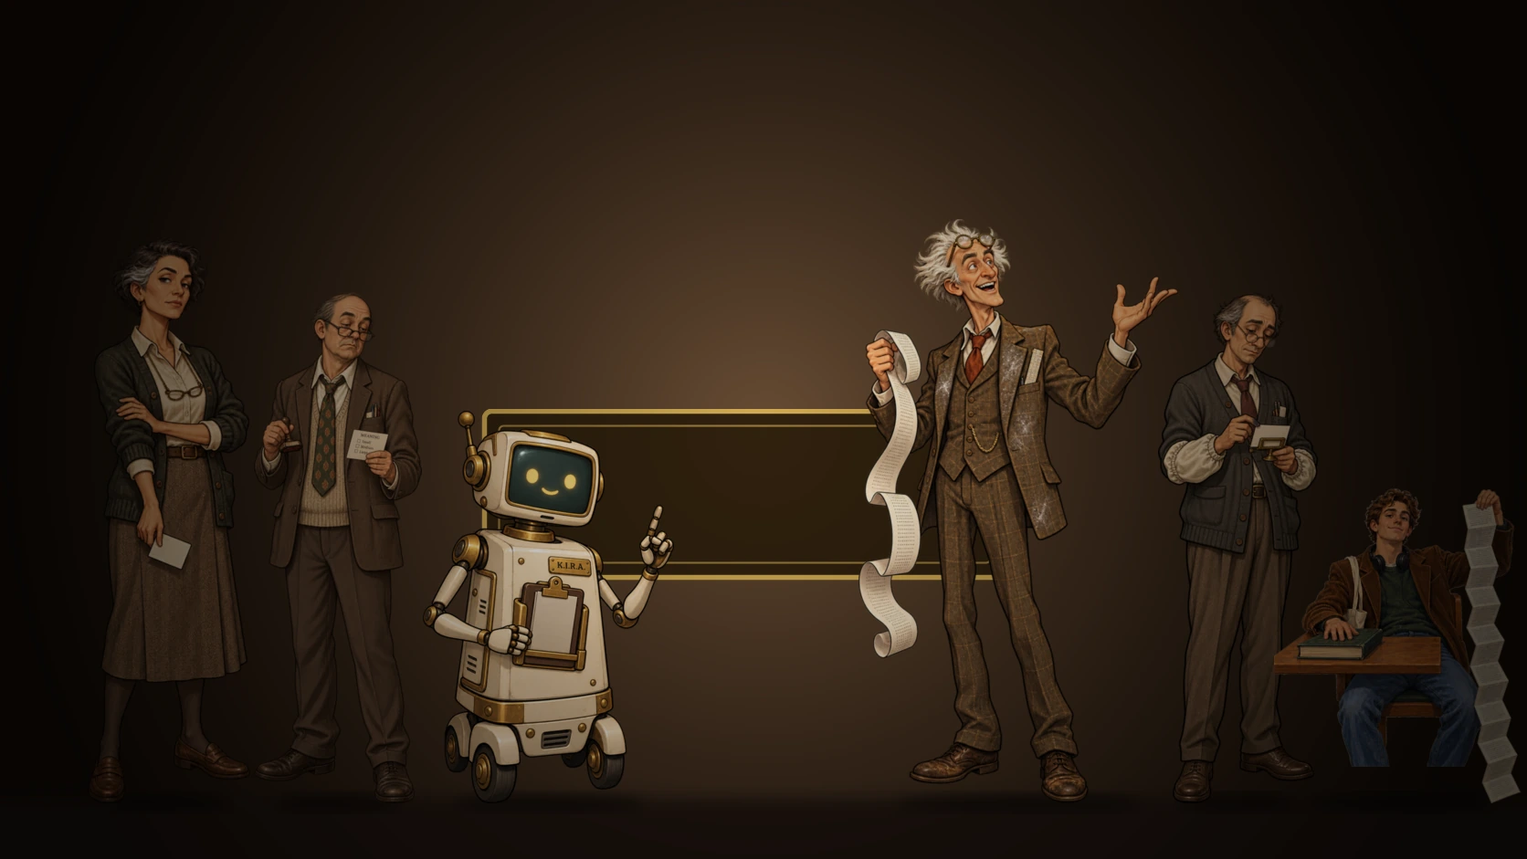
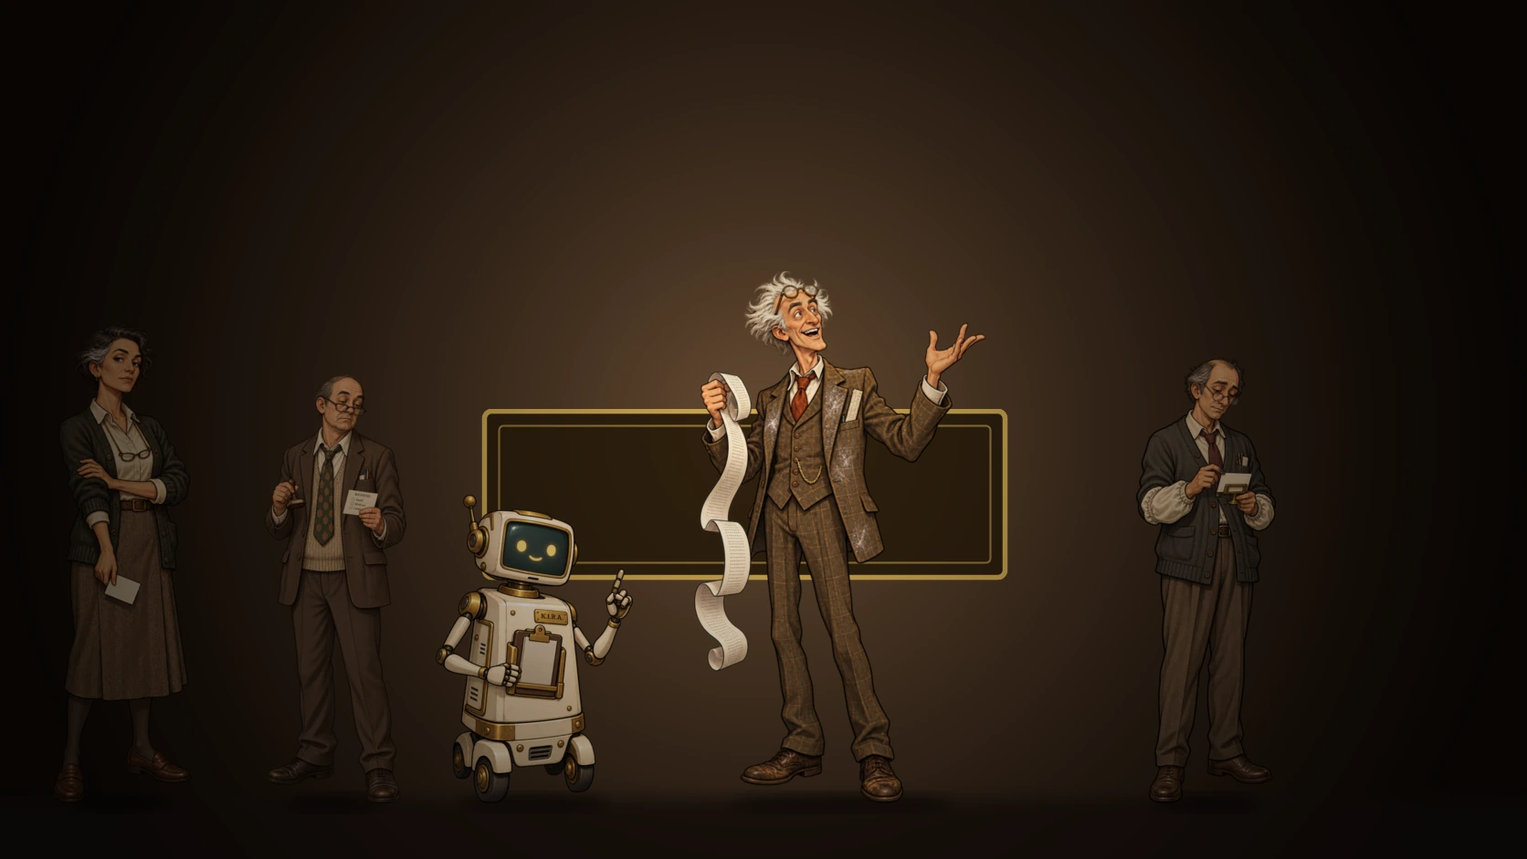
Act I: ask Vossberg where she is; seminar and library fixes
**The Professor no longer arrives because a stranger's lecture ended.**
`profAtOffice` was set by exactly one event: winning the bingo minigame in
the Lecture Theatre. That was coherent while the lecturer and the Professor
were one person, but 8o split them in two, and it left Act I gated on beating
a minigame in another room for a reason no player could reconstruct.

You can now just ask. Dr. Vossberg is covering her nine o'clock, is not
enjoying it, and knows exactly where she is. Talk to him and the question is
offered -- no items, no prerequisites, available the moment you walk in.
Derailing the lecture still works too, since it ends the hour she is refusing
to be in the building for. The empty-office hint now points at him by name.

**She stops shaking.** Opening her talk amplitude UP was the mistake. She is
one flat painting of a seated woman with her desk in it and no mouth frames,
so the lean rotated the furniture about a pivot in the middle of her, swinging
her head one way and her chair the other. Painted-in characters hold still.

**A guard that had gone wrong a second way.** The "not with her sitting right
there" check read `hasFlag('profAtOffice')`; it now reads the room's live
`profHere`. Same symptom as the old hoisting bug: you could clear her desk
while she watched.

**Seminar Room.** The Visiting Fellow stood with her feet on the seat of a
foreground chair. The backdrop is one flat painting, so a sprite is in front
[…]

diff --git a/web/the-secret-of-the-codebook.html b/web/the-secret-of-the-codebook.html
@@ -726,10 +726,13 @@
   [data-voice].talk-out{ --cb-a:0; }
   [data-voice="officer"], [data-voice="feldstrom"]{ --tk-rot:1.1deg; --tk-sc:.012; --tk-ri:.5%; --tk-dur:1.3s; }
   [data-voice="director"]{ --tk-rot:.8deg; --tk-sc:.003; --tk-ri:.4%; --tk-dur:.62s; }
-  /* The Professor is framed as a seated bust behind a desk, so the same lean covers far
-     fewer pixels than it does on a standing figure. Opened up to compensate, not because
-     she is more animated than anyone else. */
-  [data-voice="prof"]{ --tk-rot:.7deg; --tk-sc:.008; --tk-ri:.3%; --tk-dur:1.05s; }
+  /* The Professor does not move at all, and opening her amplitude UP was the mistake. She
+     is one flat painting of a seated woman WITH HER DESK IN IT, and she has no mouth frames
+     to carry the talking. So the lean does not read as a person leaning: it rotates the desk
+     too, about a pivot in the middle of her, which swings her head one way and her chair the
+     other. That is the shake. Stillness is the right answer for a painted-in character --
+     the same call already made for KIRA, for the opposite reason. */
+  [data-voice="prof"]{ --tk-rot:0deg; --tk-sc:0; --tk-ri:0%; --tk-dur:1.05s; animation:none; }
   /* KIRA is a machine on castors: no breath, no weight to shift, and she rocks rather than leans. */
   [data-voice="kira"]{ --tk-rot:.35deg; --tk-sc:.004; --tk-ri:0%; --tk-dur:.7s; animation:none; }
   [data-voice="keeper"], [data-voice="chair"], [data-voice="doorman"],
@@ -2898,11 +2901,19 @@ CODEBOOK_REGISTER({
     if (spr) spr.style.display = 'none';
   }
 
-  // Professor is a single shared entity toggling between Office and Lecture Theatre
-  // Absent means she is out: at the start of Act I she refuses to be in the building while
-  // the nine o'clock is running under her name (see the timetable line below), and she also
-  // walks out the moment her patience runs out. Desk items can only be taken while she is
-  // not watching, so an empty office is the looting window either way.
+  // She is out when the game starts, and `profAtOffice` is what brings her back. What SETS
+  // that flag is the thing that had to change: it used to be winning the bingo minigame in
+  // the Lecture Theatre, which was coherent while the lecturer and the Professor were the
+  // same person, but ROADMAP 8o split them in two. After the split, a stranger's lecture
+  // ending early was the only event in the game that could put HER at HER OWN DESK.
+  //
+  // Now you ask. Dr. Vossberg is covering her nine o'clock and knows exactly where she is,
+  // and asking him is a conversation rather than a puzzle -- so Act I is no longer gated on
+  // beating a minigame, and the answer arrives from the person with the obvious reason to
+  // know it. Derailing the lecture still works too: the hour ends, so she comes back.
+  //
+  // She also walks out the moment her patience runs out. Desk items can only be taken while
+  // she is not watching, so an empty office is the looting window either way.
   var profHere = ctx.hasFlag('profAtOffice');
   var wpBg = document.getElementById('wp_bg');
   var wpProf = document.getElementById('wp_prof');
@@ -3211,7 +3222,7 @@ CODEBOOK_REGISTER({
       officeWalkThenAct(id, function(){
         if (id === 'prof' && !profHere){
           if (selectedVerb === 'lookat'){ setLine('You', 'An empty desk chair, still faintly rocking.'); showEmptyOfficeChoices(); return; }
-          if (selectedVerb === 'talkto'){ setLine('You', 'No one to talk to. The office is empty &mdash; try the lecture theatre.'); showEmptyOfficeChoices(); return; }
+          if (selectedVerb === 'talkto'){ setLine('You', 'No one to talk to. The office is empty &mdash; but the timetable says Dr. Vossberg is covering her nine o&rsquo;clock, and he will know where she has gone.'); showEmptyOfficeChoices(); return; }
           respond(FALLBACK[selectedVerb] || "That doesn't seem to work.");
           return;
         }
@@ -3222,11 +3233,14 @@ CODEBOOK_REGISTER({
         if (selectedVerb === 'use' && selectedItem === 'pen' && id === 'cork'){ handlePenOnCorkboard(); return; }
         // The Professor's backstory, in one prop and one line. Optional, never required.
         if (selectedVerb === 'use' && selectedItem === 'magnifyingglass' && id === 'shelfR'){
-          // NB: this used to be `var profHere`, which is function-scoped, so it hoisted to
-          // the top of the whole click handler and shadowed the room's real profHere with
-          // undefined on every click. Both "not with her sitting right there" guards below
-          // were therefore dead: you could clear her desk while she sat watching you.
-          var sheIsWatching = ctx.hasFlag('profAtOffice');
+          // Read her ACTUAL presence, not a flag that approximates it. This has now been
+          // wrong twice in two different ways. First it was `var profHere`, which is
+          // function-scoped, so it hoisted to the top of the whole click handler and
+          // shadowed the room's real profHere with undefined. Then it was
+          // ctx.hasFlag('profAtOffice'), which stopped meaning "she is in the room" the
+          // moment she started being here from the start. Both times the symptom was the
+          // same: you could clear her desk while she sat watching you.
+          var sheIsWatching = profHere;
           if (!ctx.hasFlag('sawDeathOfCommunity')){
             ctx.setFlag('sawDeathOfCommunity');
             setLine('You', 'You tilt the offprint out far enough to read the spine. <i>THE DEATH OF COMMUNITY: EVIDENCE FROM TWENTY-THREE RESIDENTS OF LEICESTER.</i> The author&rsquo;s name is the one on the door.');
@@ -3455,7 +3469,7 @@ CODEBOOK_REGISTER({
 
   // Patience spent: she leaves, and the room becomes the empty office. Nothing is saved,
   // because "next time you come back she is there again" is the whole point -- re-entering
-  // the room re-runs init(), which reads profAtOffice and resets `state` to five bubbles.
+  // the room re-runs init(), which puts her back at her desk and resets `state` to five.
   function sheLeaves(){
     profHere = false;
     walkedOut = true;
@@ -3875,7 +3889,7 @@ CODEBOOK_REGISTER({
       left = true;
       if (!ctx.hasFlag('lectureDone')) ctx.complete();
       ctx.setFlag('lecturerGone');    // he has left this room
-      ctx.setFlag('profAtOffice');    // and the Professor has stopped hiding from it
+      ctx.setFlag('profAtOffice');    // and the nine o'clock is over, so she will come back
       applyPresence(false);
       setLine('System', 'The theatre is empty. The chalk diagram is still on the board, looping back into itself.<div class="state-line win">+ Lecture derailed. Forty minutes early.</div>');
       var bar = document.createElement('div'); bar.className = 'continuebar';
@@ -3893,9 +3907,11 @@ CODEBOOK_REGISTER({
   //
   //   lecturerGone   this room only. Set by bingo, cleared by drawing on the blackboard,
   //                  which he cannot resist coming back to correct.
-  //   profAtOffice   the Office only. Set by bingo and never cleared: what brings the
-  //                  Professor back is the building emptying out forty minutes early,
-  //                  and summoning the lecturer back does not un-empty it.
+  //   profAtOffice   the Office only, and never cleared. Set two ways, because gating Act I
+  //                  on winning a minigame in here was wrong: ASK him where she is (the
+  //                  intended route -- he is covering her class and knows), or derail the
+  //                  lecture, which ends the nine o'clock she is refusing to be in the
+  //                  building for. Summoning the lecturer back does not un-empty it.
   var lecturerHere = !ctx.hasFlag('lecturerGone');
   var zoneEls = [];
   function clearZones(){ zoneEls.forEach(function(z){ z.remove(); }); zoneEls = []; }
@@ -3998,6 +4014,26 @@ CODEBOOK_REGISTER({
     if (x.kind === 'prof'){
       if (selectedVerb === 'use' && selectedItem === 'bingocard'){ startBingo(); return; }
       if (selectedVerb === 'talkto'){
+        // The one question he will break off for. He is covering somebody else's nine
+        // o'clock and is not enjoying it, so "where is she?" is a subject he has opinions
+        // about -- and it is the intended way to get the Professor back to her office.
+        // Asking costs nothing, needs nothing, and can be done the moment you walk in.
+        if (!ctx.hasFlag('profAtOffice')){
+          clearChoices();
+          setLine('You', 'You wait for a gap. There is no gap. You ask anyway.');
+          addChoice('&ldquo;Where is Professor Halvorsen?&rdquo;', function(){
+            clearChoices();
+            setLine('Dr. Vossberg', 'He stops dead, which nothing else has managed.<br><br>&ldquo;Not here. Obviously not here. It is her course.&rdquo; <i>(he taps the printout, which is hers)</i> &ldquo;She will not be in the building while this runs under her name. She calls it a matter of principle. I call it forty minutes.&rdquo;<br><br>&ldquo;So where is she?&rdquo;<br><br>&ldquo;Walking. She comes back when it is over.&rdquo; He checks the clock and sighs at it. &ldquo;Or when somebody ends it early. Do not get ideas.&rdquo;<div class="state-line">She will be in her office now.</div>');
+            ctx.setFlag('profAtOffice');
+          });
+          addChoice('Never mind.', function(){
+            clearChoices();
+            var a0 = AMBIENT_LINES[ambientIndex % AMBIENT_LINES.length];
+            setLine('Dr. Vossberg', a0.text, null, a0.audio);
+            ambientIndex++;
+          });
+          return;
+        }
         var ambient = AMBIENT_LINES[ambientIndex % AMBIENT_LINES.length];
         setLine('Dr. Vossberg', ambient.text, null, ambient.audio);
         ambientIndex++;
@@ -4986,7 +5022,7 @@ CODEBOOK_REGISTER({
     // painted, so the people on the poster are exactly the people you will meet.
     { src:'il2-cast.webp',
       html:'<div style="position:absolute;left:50%;top:53%;transform:translateX(-50%);text-align:center;color:#e0b458;font-family:\'JetBrains Mono\',monospace;font-size:clamp(10px,1.4vw,22px);letter-spacing:.5em;text-transform:uppercase;text-shadow:0 2px 8px #000;">Starring</div>',
-      text:'A librarian who has read every title and no book. A clerk who files quotations by how impressive they sound. A physicist who thinks students are a kind of traffic. A visiting fellow who asks one question and ruins the afternoon. And a man who skimmed it, which is basically reading it.' },
+      text:'A librarian who has read every title and no book. A clerk who files quotations by how impressive they sound. A physicist who thinks students are a kind of traffic. A visiting fellow who asks one question and ruins the afternoon. And a registrar who will seal absolutely anything, provided it is on the correct form.' },
     { src:'hall-bg.webp',
       html:'<div class="il-veil"></div>' +
         '<div class="il-title"><div class="kicker">The Secret of the Lost Codebook</div><div class="act">ACT II</div><div class="rule"></div><div class="big">Apparently We Need a Theory</div><div class="sub">An idea about how the world works. And a way to be wrong.</div></div>',
@@ -5105,7 +5141,6 @@ CODEBOOK_REGISTER({
 // Coordinates read off a decile grid over the painted background (art/library/ART_PROMPTS.md).
 var HOTSPOTS = [
   { id:'kira',      label:'KIRA',                         noun:'KIRA',            l:62, t:50, w:12, h:34 },
-  { id:'student',   label:'A student at a reading desk',   noun:'the student',     l:48, t:45, w:15, h:23 },
   { id:'conveyor',  label:'A conveyor belt of literature',noun:'the conveyor',    l:24, t:27, w:64, h:18 },
   { id:'trolley',   label:'The READY TO CITE trolley',    noun:'the trolley',     l:43, t:58, w:15, h:27 },
   { id:'catalogue', label:'The card catalogue',           noun:'the catalogue',   l:23, t:40, w:17, h:48 },
@@ -5120,15 +5155,6 @@ CODEBOOK_REGISTER({
   prereq: CODEBOOK_ACT_GATE(2), lockedHint: 'Locked until you have a question (Act I).',
   html: CODEBOOK_ADV_HTML({ p:'lb', depth:{ backY:64, backH:30, frontY:98, frontH:56 }, floor:[66, 96], walk:[[12, 86], [8, 82]], tobiFoot:[30.0, 94.0], act:'Act II', title:'The Library &mdash; Ready to Cite',
     bg:'library-bg.webp', hotspots: HOTSPOTS, sprites: [
-      // ROADMAP 8h/8a. The student who skimmed it. He has been written into this room for
-      // a long time and had no body; this is where the did-not-do-the-reading thread
-      // starts, so he needs to be visible rather than described. Placed by l/t/w/h and not
-      // by `foot`, because the depth ramp gives standing heights and he is sitting down.
-      //
-      // He is declared BEFORE KIRA on purpose. Array order is DOM order, so whoever is
-      // listed later draws in front, and he sits further back in the room than she rolls
-      // -- listed after her he was sitting on top of her.
-      { id:'student', voice:'student', src:'sprite-libstudent.webp', l:47.0, t:43.5, w:17.0, h:26.0 },
       { id:'kira', voice:'kira', src:'sprite-kira.png', scale:0.62, foot:[64, 88], roll:14 },
       { id:'skel', src:'sprite-skeleton-library.png', scale:0.94, foot:[16, 90] }
     ] }),
@@ -5166,22 +5192,6 @@ CODEBOOK_REGISTER({
           return false;
         }
 
-        // The student who skimmed it. Everything he says is confident and none of it comes
-        // from the book, which is the thread this room starts and Reviewer 2's comment 1
-        // finishes in the outro.
-        if (id === 'student'){
-          if (verb === 'lookat'){ api.say('You', 'A student at a reading desk, tipped back in his chair. His hand rests flat on a thick hardback, which is shut, and has the untroubled spine of a book that has never been opened past the contents page.<br><br>In his other hand is his summary of it. It is four pages long and still unfolding.'); return; }
-          if (verb === 'talkto'){
-            api.say('You', 'You ask him how the reading is going.<br><br>&ldquo;Yeah, no, I skimmed it,&rdquo; he says, without looking up from the summary. &ldquo;Which is basically reading it.&rdquo;<br><br>KIRA, rolling past: &ldquo;Excellent throughput.&rdquo;');
-            api.choice('&ldquo;What&rsquo;s the argument?&rdquo;', function(){ api.clearChoices();
-              api.say('You', 'He turns a page of his own summary to check.<br><br>&ldquo;It&rsquo;s basically about&hellip; how everything is connected.&rdquo; <i>(a pause, then, with real confidence)</i> &ldquo;But in a complex way.&rdquo;'); });
-            api.choice('&ldquo;Is it any good?&rdquo;', function(){ api.clearChoices();
-              api.say('You', '&ldquo;Seminal,&rdquo; he says immediately. Then, after a moment: &ldquo;Everyone says seminal. I don&rsquo;t actually know what would make it not seminal.&rdquo;<br><br>He looks briefly troubled by this, and then it passes.'); });
-            return;
-          }
-          if (verb === 'pickup'){ api.say('You', 'The book, or the summary? He would not miss the book.'); return; }
-          return false;
-        }
 
         if (id === 'conveyor'){
           if (verb === 'lookat'){ api.say('You', 'Books and papers pouring past at industrial speed. A mechanical arm puts a green <b>RELEVANT</b> sticker on every single one. It does not stop. It is still doing it when you look away.'); return; }
@@ -6123,21 +6133,20 @@ var HOTSPOTS = [
   { id:'board',   label:'The consequence board',   noun:'the board',   l:6,  t:5,  w:56, h:53 },
   { id:'chairs',  label:'Eleven chairs',           noun:'the chairs',  l:2,  t:58, w:66, h:40 },
   { id:'fellow',  label:'The Visiting Fellow',     noun:'the Fellow',  l:72, t:45, w:14, h:48 },
-  { id:'sign',    label:'A framed sign',           noun:'the sign',    l:62, t:12, w:15, h:46 },
-  { id:'skeleton',label:'A skeleton at the table', noun:'the skeleton',l:86, t:52, w:12, h:40 }
+  { id:'sign',    label:'A framed sign',           noun:'the sign',    l:62, t:12, w:15, h:46 }
 ];
 CODEBOOK_REGISTER({
   id: 'seminar', act: 'Act II', title: 'The Seminar Room', doneFlag: 'seminarDone',
   prereq: CODEBOOK_ACT_GATE(2), lockedHint: 'Locked until you have a question (Act I).',
   html: CODEBOOK_ADV_HTML({ p:'sm', depth:{ backY:70, backH:30, frontY:99, frontH:56 }, floor:[72, 97], walk:[[8, 92], [5, 95]], tobiFoot:[30.0, 95.0], act:'Act II', title:'The Seminar Room',
     bg:'seminar-bg.webp', hotspots: HOTSPOTS, sprites: [
-      // She stood at y=93 -- right at the camera -- but drawn at mid-room size, so she was
-      // laid over the huge foreground chairs at the scale of someone at the back. Brought
-      // fully forward: now she is the nearest figure in the room, which makes passing in
-      // front of those chairs correct instead of wrong, and gives her the presence the
-      // composition wants from the person running the seminar.
-      { id:'fellow', voice:'fellow', src:'sprite-fellow.png', scale:1.16, foot:[75, 99] },
-      { id:'skel', src:'sprite-skeleton-seminar.png', scale:0.94, foot:[92, 96] }
+      // The backdrop is one flat painting, so a sprite is drawn in front of every chair in
+      // the room no matter where it stands. That makes only one thing matter: the ground
+      // directly under her feet has to be carpet you can see. At [75,99] it was the seat of
+      // a foreground chair, and she read as standing on it. She now stands inside the ring,
+      // on the open carpet, which is also where the person running a seminar belongs -- and
+      // clear of the board, whose three columns have to stay readable.
+      { id:'fellow', voice:'fellow', src:'sprite-fellow.png', scale:1.16, foot:[62, 88] }
     ] }),
   init: function(ctx){
     window.CODEBOOK_AMBIENCE('amb-clock', 0.05);
@@ -6147,15 +6156,11 @@ CODEBOOK_REGISTER({
 
     api = CODEBOOK_ADV_ROOM(ctx, {
       p: 'sm', hotspots: HOTSPOTS,
-      intro: ['System', 'Chalk dust, eleven chairs, one visiting fellow and a skeleton. On the board, the same fact you started with, and three explanations pinned underneath it.'],
+      intro: ['System', 'Chalk dust, eleven chairs and one visiting fellow. On the board, the same fact you started with, and three explanations pinned underneath it.'],
       onClick: function(id, verb, item, api){
 
         if (id === 'sign'){
           if (verb === 'lookat'){ api.say('You', 'A framed sign: <b>THEORY = WHAT COULD BE WRONG.</b><br><br>Underneath, scratched into the wood in pencil by somebody long gone: <i>&ldquo;and tells you why.&rdquo;</i>'); return; }
-          return false;
-        }
-        if (id === 'skeleton'){
-          if (verb === 'lookat'){ api.say('You', 'A skeleton at the seminar table, hand raised, sign around its neck: <b>&ldquo;STILL AWAITING A MECHANISM.&rdquo;</b>'); return; }
           return false;
         }
         if (id === 'chairs'){
@@ -8232,7 +8237,7 @@ window.CODEBOOK_VO = {
       'rig-doorman-head.webp', 'rig-doorman-torso.webp', 'rig-doorman-upperarm.webp', 'rig-doorman-forearm.webp', 'rig-doorman-thigh.webp', 'rig-doorman-shin.webp'
     ]),
     act2: ['sprite-tobi-walk.png','sprite-kira.png','sprite-feldstrom.png','sprite-fellow.png','sprite-tobi.png',
-           'sprite-skeleton-library.png','sprite-skeleton-hall.png','sprite-skeleton-seminar.png','il2-slip.webp','il2-rooms.webp','il2-cast.webp','library-bg.webp', 'hall-bg.webp',
+           'sprite-skeleton-library.png','sprite-skeleton-hall.png','il2-slip.webp','il2-rooms.webp','il2-cast.webp','library-bg.webp', 'hall-bg.webp',
            'workshop-bg.webp', 'accelerator-panel.webp', 'sprite-feldstrom-bored.webp', 'seminar-bg.webp'],
     act5: ['sprite-tobi-walk.png','sprite-kira.png','sprite-feldstrom.png','sprite-registrar.png','sprite-tobi.png','sprite-skeleton-gap.png','il5-rooms.webp','il5-chute.webp','il5-cast.webp','outro-1-walk.webp','outro-2-months.webp','outro-3-letter.webp','outro-4-r2.webp','outro-5-verdict.webp','outro-6-monkey.webp','gapregistry-bg.webp', 'writingroom-bg.webp', 'lecture-bg.webp', 'vossberg-lecturing.webp'],
     act4: ['sprite-tobi-walk.png','sprite-kira.png','sprite-clerk.png','il4-seal.webp','il4-rooms.webp','il4-cast.webp','basement-bg.webp', 'delegation-bg.webp', 'bureau-bg.webp'],

diff --git a/tools/test/test-lecturer.js b/tools/test/test-lecturer.js
@@ -9,6 +9,8 @@
 //      a woman in a different building now.
 //   2. winning bingo sends the lecturer away AND brings the Professor back, via two
 //      separate flags, because summoning the lecturer back must not empty the Office again
+//   2b. but bingo is no longer the ONLY way she comes back -- ASKING him where she is does
+//      it too, and that is the intended route. Act I must not be gated on a minigame.
 //   3. a save made before the split still works: `profAtOffice` alone has to imply that
 //      the lecturer has already gone, or a derailed lecture starts over
 const { connect } = require('./cdp');
@@ -81,6 +83,41 @@ const U = 'http://localhost:8934/the-secret-of-the-codebook.html?cb=';
     return { officeOccupied: !!line && !/The office is empty/.test(line.textContent) };
   })()`);
 
+  // ---- 4: ASKING him is the intended way to get her back, and it needs nothing.
+  // Act I used to be gated on winning the bingo minigame: that was the only event that
+  // could put the Professor at her own desk. Now the first thing anyone tries -- talk to
+  // the man covering her class -- works, with an empty inventory, on the way in.
+  await p.evaluate(`localStorage.setItem('codebook_save_v1', JSON.stringify({inventory:[],flags:{}}))`);
+  await p.send('Page.navigate', { url: U + Date.now() }); await p.ready();
+  const e = await p.evaluate(`(async () => {
+    const w = ms => new Promise(r => setTimeout(r, ms));
+    const s = document.getElementById('bootSplash'); if (s) s.remove();
+    window.CODEBOOK_START(); await w(800);
+    [...document.querySelectorAll('button.campus-hotspot')]
+      .find(b => /Introduction to Systems Theory|Lecture/i.test(b.title)).click();
+    await w(1600);
+    const vb = [...document.querySelectorAll('#lt_verbGrid button')].find(b => /talk to/i.test(b.textContent));
+    if (!vb) return { err: 'no talk-to verb' };
+    vb.click();
+    // his zone is the bare .door-zone div at left:46% -- same selector the bingo run uses
+    const hot = [...document.querySelectorAll('#lt_sceneWrap .door-zone')]
+      .find(el => el.style.left.indexOf('46') === 0);
+    if (!hot) return { err: 'no lecturer hotspot' };
+    hot.click(); await w(600);
+    const ask = [...document.querySelectorAll('#lt_choices button')]
+      .find(b => /Halvorsen/i.test(b.textContent));
+    const out = { offered: !!ask, before: !!JSON.parse(localStorage.getItem('codebook_save_v1')).flags.profAtOffice };
+    if (!ask) return out;
+    ask.click(); await w(600);
+    out.after = !!JSON.parse(localStorage.getItem('codebook_save_v1')).flags.profAtOffice;
+    out.lecturerStillHere = !JSON.parse(localStorage.getItem('codebook_save_v1')).flags.lecturerGone;
+    // ...and asking twice does not re-offer it
+    hot.click(); await w(400);
+    out.notReoffered = ![...document.querySelectorAll('#lt_choices button')]
+      .some(b => /Halvorsen/i.test(b.textContent));
+    return out;
+  })()`);
+
   // ---- 3: a pre-split save
   await p.evaluate(`localStorage.setItem('codebook_save_v1', JSON.stringify({
     inventory:[], flags:{ lectureDone:true, profAtOffice:true }}))`);
@@ -92,12 +129,16 @@ const U = 'http://localhost:8934/the-secret-of-the-codebook.html?cb=';
   await p.send('Page.navigate', { url: U + Date.now() }); await p.ready();
   const d = await p.evaluate(`JSON.parse(localStorage.getItem('codebook_save_v1')).flags.lecturerGone === undefined`);
 
-  console.log(JSON.stringify({ ...a, ...b, migratedOldSave: c, leavesNewSaveAlone: d }, null, 1),
+  console.log(JSON.stringify({ ...a, ...b, ask: e, migratedOldSave: c, leavesNewSaveAlone: d }, null, 1),
               '\nerrors:', p.errors.length ? p.errors : 'none');
   await p.evaluate(`localStorage.removeItem('codebook_save_v1')`);
   const ok = a && a.speaker === 'Dr. Vossberg' && a.poses && a.mouths && a.noProfSprite
           && a.started && a.shouted && a.lectureDone && a.lecturerGone && a.profAtOffice
-          && b.officeOccupied && c && d && !p.errors.length;
+          && b.officeOccupied && c && d
+          && e && !e.err && e.offered && !e.before && e.after   // asking alone brings her back
+          && e.lecturerStillHere                                // without derailing anything
+          && e.notReoffered
+          && !p.errors.length;
   console.log(ok ? 'PASS' : 'FAIL');
   p.close(); process.exit(ok ? 0 : 1);
 })();
